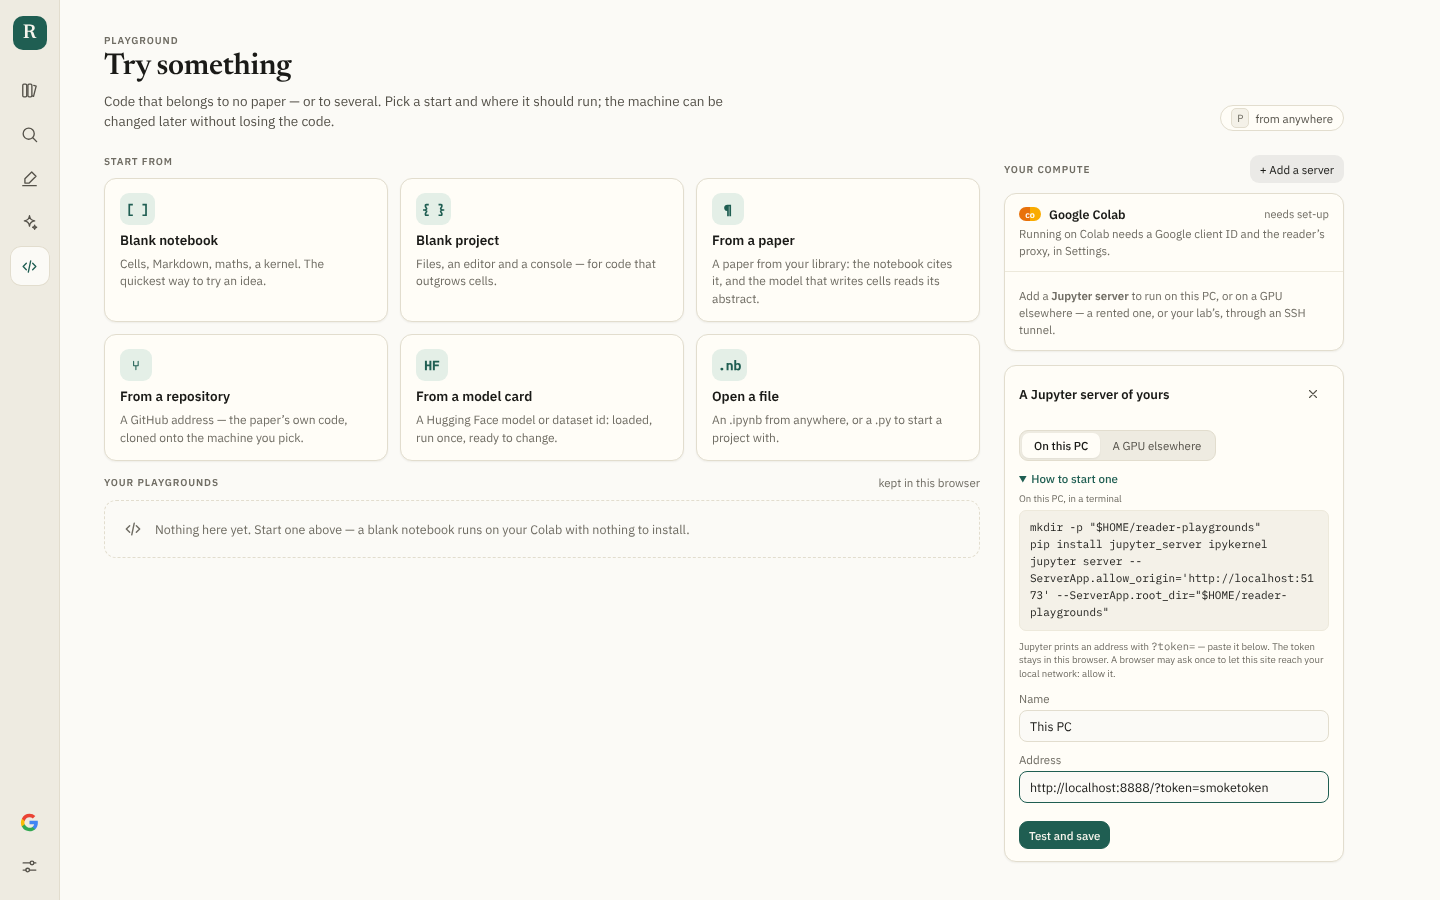
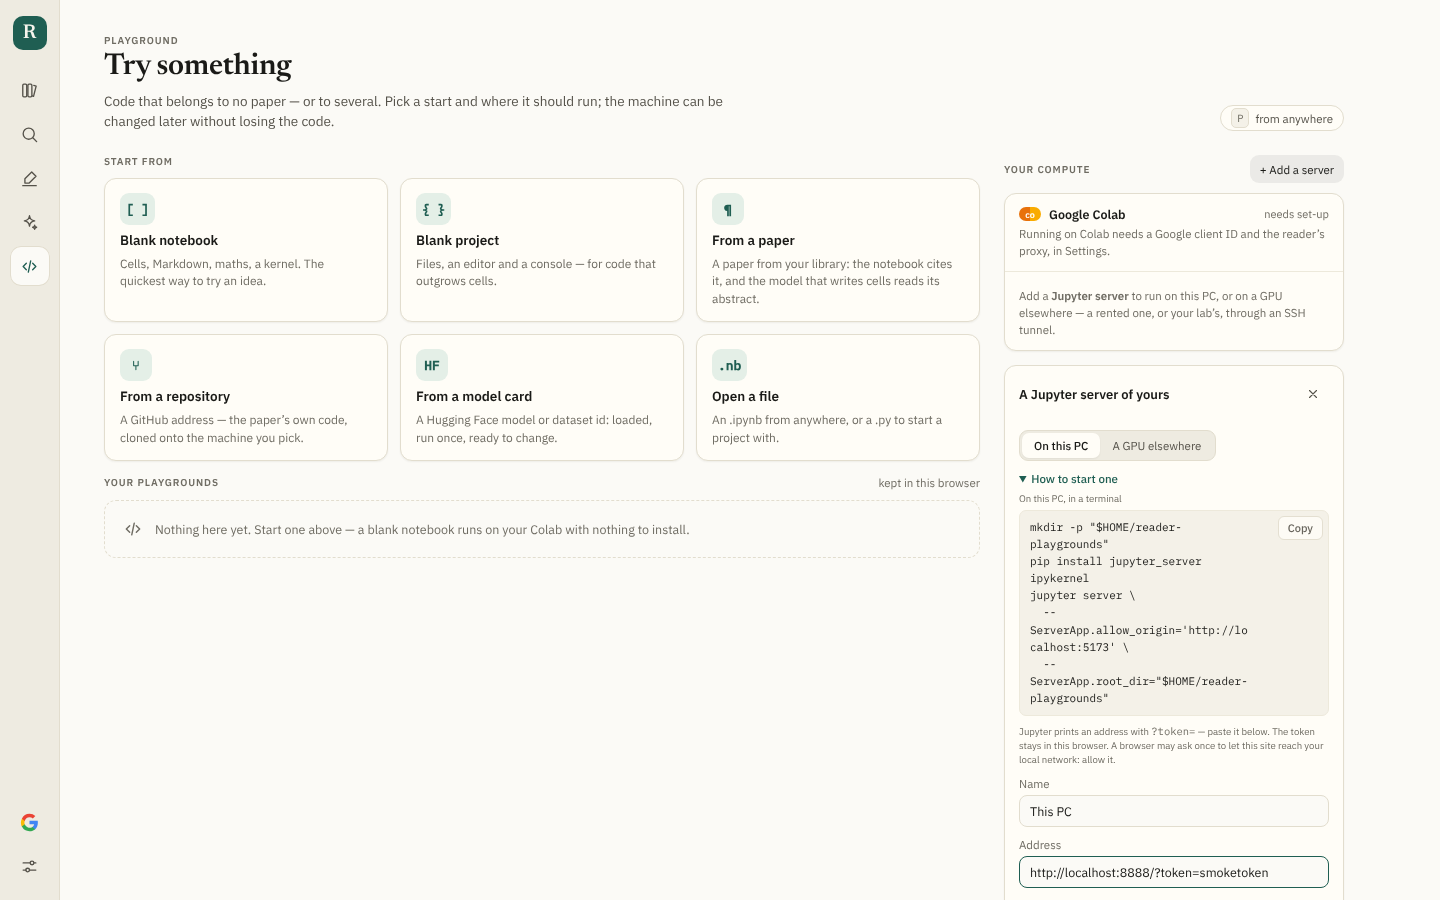
A Copy button on every block of commands
The commands the page shows — the Jupyter server to start on this PC or a
GPU machine, the SSH tunnel, RunPod's start, the local workspace's
`npm start`, the runtime's probe — are now a CopyBlock: the code as before,
with a Copy button on its corner that takes the whole block at once (the
clipboard API where the page may use it, the old way on an http page), and
says Copied.

The Jupyter command is now one flag a line, joined with backslashes, so it
reads in the narrow card and still pastes as one command; RunPod's block
makes the root folder first, as the others do.

Claude-Session: https://claude.ai/code/session_01HE3adjfry4q4f9Ehj8aPZS

Changed region(s): [[0.6875, 0.56, 0.9062, 0.9956]]

diff --git a/src/components/Playground.tsx b/src/components/Playground.tsx
@@ -32,6 +32,7 @@ import { useStore } from '../lib/store';
 import type { Paper } from '../types';
 import { ColabMark } from './Colab';
 import { CloseIcon, CodeIcon, TrashIcon } from './icons';
+import CopyBlock from './CopyBlock';
 import PlaygroundWorkspace from './PlaygroundWorkspace';
 
 export default function Playground({ id, onOpen, onOpenPaper }: { id?: string; onOpen: (id?: string) => void; onOpenPaper: (id: string) => void }) {
@@ -392,13 +393,14 @@ const safeHost = (url: string) => {
 
 /** The commands that start a Jupyter server this page may talk to, for this site's origin. */
 export function serverCommands(where: 'pc' | 'remote', origin: string): { label: string; code: string }[] {
-  const allow = `--ServerApp.allow_origin='${origin}'`;
-  const base = `pip install jupyter_server ipykernel\njupyter server ${allow} --ServerApp.root_dir="$HOME/reader-playgrounds"`;
-  if (where === 'pc') return [{ label: 'On this PC, in a terminal', code: `mkdir -p "$HOME/reader-playgrounds"\n${base}` }];
+  // One flag a line, joined with backslashes: easy to read in a narrow card, and still one command when pasted.
+  const server = (...extra: string[]) => ['jupyter server', `--ServerApp.allow_origin='${origin}'`, '--ServerApp.root_dir="$HOME/reader-playgrounds"', ...extra].join(' \\\n  ');
+  const setup = 'mkdir -p "$HOME/reader-playgrounds"\npip install jupyter_server ipykernel';
+  if (where === 'pc') return [{ label: 'On this PC, in a terminal', code: `${setup}\n${server()}` }];
   return [
-    { label: 'On the GPU machine', code: `mkdir -p "$HOME/reader-playgrounds"\n${base} --ServerApp.port=8888` },
-    { label: 'Then on this PC — an SSH tunnel to it (a lab server, a cloud VM, a pod with SSH)', code: 'ssh -N -L 8890:localhost:8888 you@the-gpu-machine\n# and add http://localhost:8890/?token=… here' },
-    { label: 'Or, on RunPod: start it on 0.0.0.0 and use the pod’s own HTTPS address', code: `${base} --ServerApp.ip=0.0.0.0 --ServerApp.port=8888\n# address: https://<pod-id>-8888.proxy.runpod.net/?token=…` },
+    { label: 'On the GPU machine', code: `${setup}\n${server('--ServerApp.port=8888')}` },
+    { label: 'Then on this PC — an SSH tunnel to it (a lab server, a cloud VM, a pod with SSH)', code: 'ssh -N -L 8890:localhost:8888 you@the-gpu-machine\n# then add http://localhost:8890/?token=… here' },
+    { label: 'Or, on RunPod: start it on 0.0.0.0 and use the pod’s own HTTPS address', code: `${setup}\n${server('--ServerApp.ip=0.0.0.0', '--ServerApp.port=8888')}\n# address: https://<pod-id>-8888.proxy.runpod.net/?token=…` },
   ];
 }
 
@@ -446,7 +448,7 @@ function ServerForm({ server, onDone, onSaved, defaultWhere = 'pc' }: { server?:
         {serverCommands(where, origin).map((step) => (
           <div key={step.label}>
             <small>{step.label}</small>
-            <pre>{step.code}</pre>
+            <CopyBlock code={step.code} />
           </div>
         ))}
         <small>Jupyter prints an address with <code>?token=</code> — paste it below. The token stays in this browser. A browser may ask once to let this site reach your local network: allow it.</small>

diff --git a/src/components/CopyBlock.tsx b/src/components/CopyBlock.tsx
@@ -1,0 +1,52 @@
+// A block of code or commands to be copied — a server to start, a variable to
+// set — with a Copy button on its corner that takes the whole of it at once,
+// so nothing is lost to a selection that stopped a line short.
+
+import { useEffect, useRef, useState } from 'react';
+
+/** Copies text, with the clipboard API where the page may use it and the old way where it may not (an http page). */
+export async function copyText(text: string): Promise<boolean> {
+  try {
+    if (navigator.clipboard && window.isSecureContext) {
+      await navigator.clipboard.writeText(text);
+      return true;
+    }
+  } catch {
+    // fall through to the old way
+  }
+  const area = document.createElement('textarea');
+  area.value = text;
+  area.setAttribute('readonly', '');
+  area.style.position = 'fixed';
+  area.style.opacity = '0';
+  document.body.appendChild(area);
+  area.select();
+  let done = false;
+  try {
+    done = document.execCommand('copy');
+  } catch {
+    done = false;
+  }
+  area.remove();
+  return done;
+}
+
+export default function CopyBlock({ code, className, label = 'Copy' }: { code: string; /** The class of the code itself, as it was drawn before it had a button. */ className?: string; label?: string }) {
+  const [state, setState] = useState<'idle' | 'copied' | 'failed'>('idle');
+  const timer = useRef<number | null>(null);
+  useEffect(() => () => void (timer.current !== null && window.clearTimeout(timer.current)), []);
+  const copy = async () => {
+    const ok = await copyText(code);
+    setState(ok ? 'copied' : 'failed');
+    if (timer.current !== null) window.clearTimeout(timer.current);
+    timer.current = window.setTimeout(() => setState('idle'), 1600);
+  };
+  return (
+    <div className="copy-block">
+      <pre className={className}>{code}</pre>
+      <button type="button" className={`copy-block-btn${state === 'copied' ? ' is-done' : ''}`} onClick={() => void copy()} aria-label={`${label} — the whole block`} title="Copy the whole block">
+        {state === 'copied' ? 'Copied ✓' : state === 'failed' ? 'Select and copy' : label}
+      </button>
+    </div>
+  );
+}

diff --git a/src/components/Implement.tsx b/src/components/Implement.tsx
@@ -28,6 +28,7 @@ import { CellRunOutput, ColabMark, ConnectCard, RunState, useColab } from './Col
 import { CloseIcon, ExplainIcon, LocalIcon } from './icons';
 import { highlightPython } from './Explain';
 import { KeepButton } from './Keep';
+import CopyBlock from './CopyBlock';
 
 /** The plan the page is showing — its title and sections — for the pieces that need more than their own block, such as the Colab panel under the budget. */
 export const PlanContext = createContext<{ title: string; sections: Section[] } | null>(null);
@@ -650,7 +651,7 @@ export function LocalMenu({ title, bundle, sections }: { title: string; bundle: 
           ) : !status?.available ? (
             <div className="colab-status">
               <b>No local workspace.</b> {status?.reason ?? ''}
-              <pre className="local-setup">{`READER_WORKSPACE=~/reader-workspace npm start`}</pre>
+              <CopyBlock className="local-setup" code="READER_WORKSPACE=~/reader-workspace npm start" />
               then point Settings → Paper proxy at it, and the scaffold can be written and run here.
             </div>
           ) : (

diff --git a/src/styles.css b/src/styles.css
@@ -5812,3 +5812,12 @@ button.brand[aria-current='page'] { box-shadow: 0 0 0 2px var(--rail), 0 0 0 4px
   .pg-cites, .pg-when { display: none; }
   .pg-name { width: 140px; }
 }
+
+/* A block of commands with a Copy button on its corner, taking the whole block. */
+.copy-block { position: relative; }
+.copy-block > pre { padding-right: 76px !important; }
+.copy-block-btn { position: absolute; top: 6px; right: 6px; height: 24px; padding: 0 9px; border: 1px solid var(--border); border-radius: 6px; background: var(--surface); color: var(--ink-2); font: 500 11px var(--sans); cursor: pointer; opacity: 0.88; }
+.copy-block-btn:hover, .copy-block-btn:focus-visible { opacity: 1; color: var(--accent-ink); border-color: var(--accent); outline: none; }
+.copy-block-btn.is-done { color: var(--accent-ink); background: var(--accent-soft); border-color: transparent; opacity: 1; }
+.colab-menu .copy-block .colab-probe { margin: 0; }
+.colab-menu .copy-block { margin: 0 8px 8px; }

diff --git a/src/components/Colab.tsx b/src/components/Colab.tsx
@@ -11,6 +11,7 @@ import { useStore } from '../lib/store';
 import type { MachineSample, MachineSpecs } from '../lib/telemetry';
 import { gigabytes, hasCurve, lossSeries, MACHINE_PROBE } from '../lib/telemetry';
 import { LossChart } from './Charts';
+import CopyBlock from './CopyBlock';
 
 export const useColab = () => useSyncExternalStore(subscribeColab, colabNow);
 
@@ -264,7 +265,7 @@ export function ColabChip({ cells }: { cells: { key: string; code: string; label
                 </small>
               </span>
             </label>
-            {probe ? <pre className="colab-probe">{MACHINE_PROBE}</pre> : null}
+            {probe ? <CopyBlock className="colab-probe" code={MACHINE_PROBE} /> : null}
             <hr />
             <button
               type="button"
